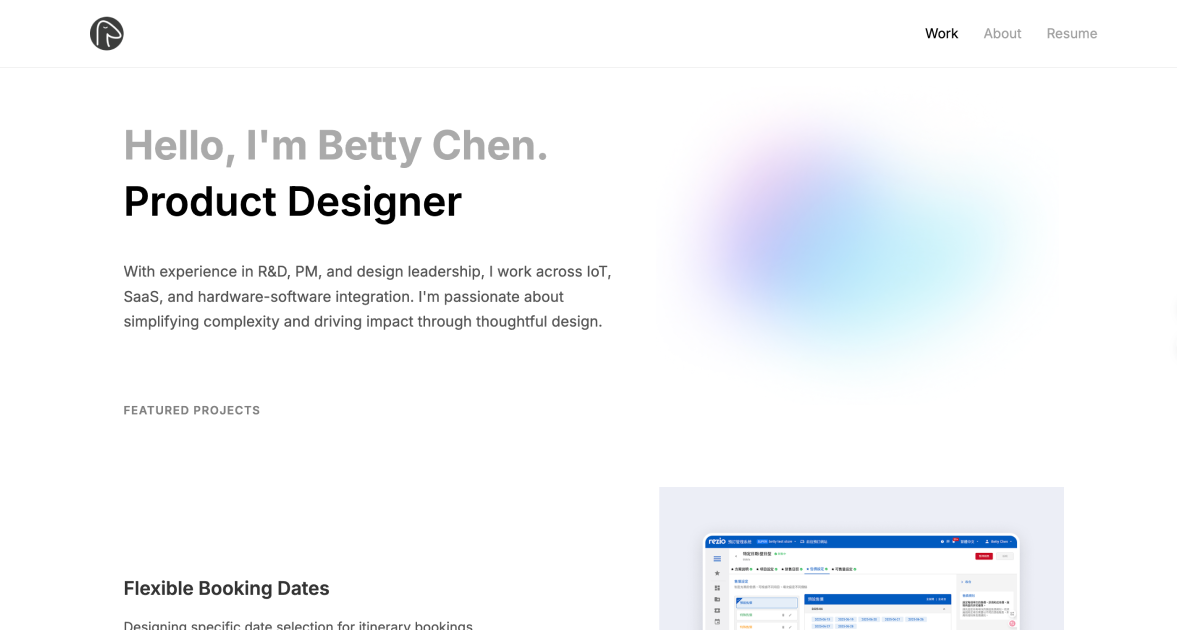
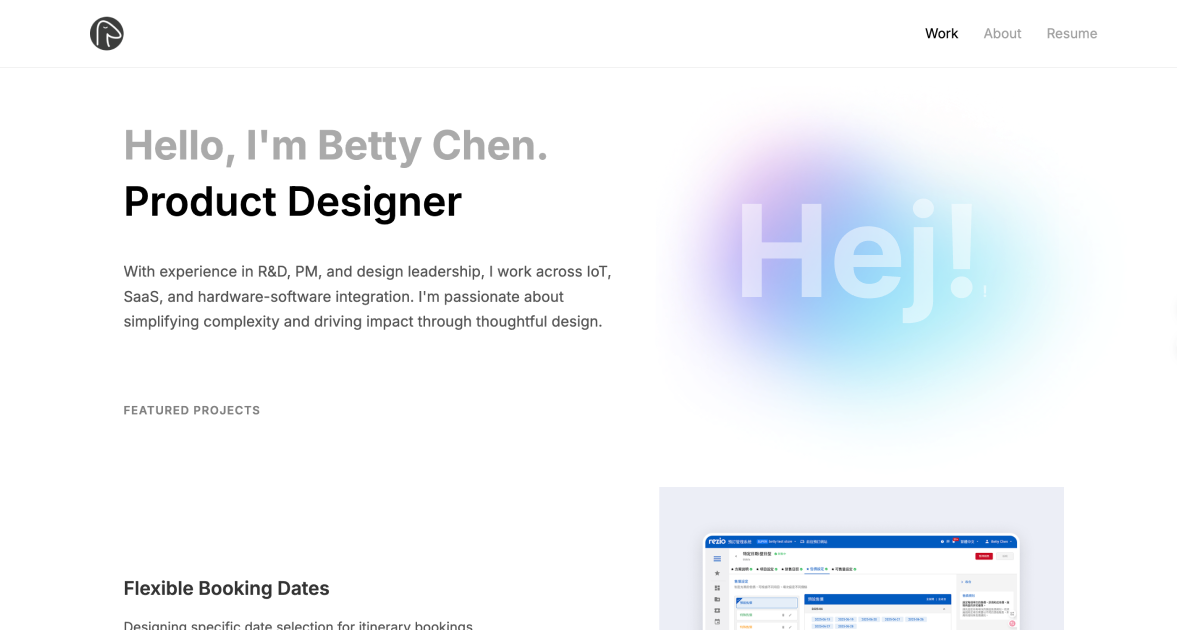
update index gradient animation & og

Changed region(s): [[0.6167, 0.3317, 0.8633, 0.6635]]

diff --git a/index.html b/index.html
@@ -45,12 +45,17 @@
   <div class="main-content">
     <section class="hero">
       <img src="img/floating.png" alt="floating object" class="floating-img">
-      <h1>Hello, I'm Betty Chen.</h1>
-      <div class="subtitle">Product Designer</div>
-      <p class="description">
-        With experience in R&D, PM, and design leadership, I work across IoT, SaaS, and hardware-software integration. 
-        I'm passionate about simplifying complexity and driving impact through thoughtful design.
-      </p>
+      <div class="hero-content-wrapper">
+        <div class="hero-text-content">
+          <h1>Hello, I'm Betty Chen.</h1>
+          <div class="subtitle">Product Designer</div>
+          <p class="description">
+            With experience in R&D, PM, and design leadership, I work across IoT, SaaS, and hardware-software integration. 
+            I'm passionate about simplifying complexity and driving impact through thoughtful design.
+          </p>
+        </div>
+        <div class="hero-hej">Hej!</div>
+      </div>
       <div class="section-title">Featured Projects</div>
     </section>
 
@@ -206,38 +211,92 @@
     document.addEventListener("DOMContentLoaded", () => {
       const img = document.querySelector(".floating-img");
       const container = document.querySelector(".hero");
+      const hejElement = document.querySelector(".hero-hej");
   
-      // 初始位置
-      let x = 50;
-      let y = 50;
-  
-      // 移動速度（越小越慢，越大越快）
-      let vx = 0.8;
-      let vy = 0.3;
-  
-      function animate() {
-        const rect = container.getBoundingClientRect();
-        const w = img.offsetWidth;
-        const h = img.offsetHeight;
-  
-        x += vx;
-        y += vy;
-  
-        // 撞左右反彈
-        if (x <= 0 || x + w >= rect.width) {
-          vx = -vx;
+      // 計算初始位置：從 Hej! 的中心位置出發
+      function getInitialPosition() {
+        if (hejElement && container) {
+          const containerRect = container.getBoundingClientRect();
+          const hejRect = hejElement.getBoundingClientRect();
+          
+          // 計算 Hej! 的中心位置相對於 container 的位置
+          const hejLeft = hejRect.left - containerRect.left;
+          const hejTop = hejRect.top - containerRect.top;
+          const hejCenterX = hejLeft + (hejRect.width / 2);
+          const hejCenterY = hejTop + (hejRect.height / 2);
+          
+          // 讓圖片從 Hej! 的中心位置開始，圖片中心對齊 Hej! 中心
+          const imgWidth = img.offsetWidth || 480;
+          const imgHeight = img.offsetHeight || 480;
+          let x = hejCenterX - (imgWidth / 2);
+          let y = hejCenterY - (imgHeight / 2);
+          
+          // 確保圖片在 hero-hej 範圍內
+          const hejRight = hejLeft + hejRect.width;
+          const hejBottom = hejTop + hejRect.height;
+          x = Math.max(hejLeft, Math.min(x, hejRight - imgWidth));
+          y = Math.max(hejTop, Math.min(y, hejBottom - imgHeight));
+          
+          return { x, y };
         }
-  
-        // 撞上下反彈
-        if (y <= 0 || y + h >= rect.height) {
-          vy = -vy;
-        }
-  
-        img.style.transform = `translate(${x}px, ${y}px)`;
-        requestAnimationFrame(animate);
+        return { x: 50, y: 50 }; // fallback
       }
   
-      animate();
+      // 等待頁面渲染完成後再計算位置
+      setTimeout(() => {
+        if (!hejElement) return;
+        
+        const initialPos = getInitialPosition();
+        let x = initialPos.x;
+        let y = initialPos.y;
+        let rotation = 0; // 旋轉角度
+        
+        // 設置初始位置
+        img.style.transform = `translate(${x}px, ${y}px) rotate(${rotation}deg)`;
+        
+        // 移動速度（越小越慢，越大越快）
+        let vx = 0.6;
+        let vy = 0.2;
+        const rotationSpeed = 0.5; // 旋轉速度（度/幀）
+        
+        function animate() {
+          // 使用 hero-hej 的邊界作為活動範圍
+          const containerRect = container.getBoundingClientRect();
+          const hejRect = hejElement.getBoundingClientRect();
+          
+          // 計算 hero-hej 相對於 hero 的位置
+          const hejLeft = hejRect.left - containerRect.left;
+          const hejTop = hejRect.top - containerRect.top;
+          const hejRight = hejLeft + hejRect.width;
+          const hejBottom = hejTop + hejRect.height;
+          
+          const w = img.offsetWidth;
+          const h = img.offsetHeight;
+    
+          x += vx;
+          y += vy;
+          rotation += rotationSpeed; // 持續旋轉
+    
+          // 撞左右反彈（限制在 hero-hej 範圍內）
+          if (x < hejLeft || x + w > hejRight) {
+            vx = -vx;
+            // 確保不會超出邊界
+            x = Math.max(hejLeft, Math.min(x, hejRight - w));
+          }
+    
+          // 撞上下反彈（限制在 hero-hej 範圍內）
+          if (y < hejTop || y + h > hejBottom) {
+            vy = -vy;
+            // 確保不會超出邊界
+            y = Math.max(hejTop, Math.min(y, hejBottom - h));
+          }
+    
+          img.style.transform = `translate(${x}px, ${y}px) rotate(${rotation}deg)`;
+          requestAnimationFrame(animate);
+        }
+        
+        animate();
+      }, 100);
     });
   </script>
   

diff --git a/style.css b/style.css
@@ -94,10 +94,11 @@ a {
   width: 480px; /* 你可以改大小 */
   top: 0;
   left: 0;
-  opacity: 0.55; /* 建議淡淡的比較不搶戲 */
+  opacity: 0.8; /* 建議淡淡的比較不搶戲 */
   pointer-events: none;
   user-select: none;
   transform: translate(0, 0);
+  z-index: 1; /* 在 Hej! 文字下方，作為底色 */
 }
 
 .hero-background-image {
@@ -115,6 +116,38 @@ a {
   padding: 64px 0 40px 0;
   position: relative;
   z-index: 1;
+}
+
+.hero-content-wrapper {
+  display: grid;
+  grid-template-columns: 1fr 1fr;
+  gap: 40px;
+  align-items: start;
+  position: relative;
+  z-index: 2;
+}
+
+.hero-text-content {
+  position: relative;
+  z-index: 2;
+}
+
+.hero-hej {
+  font-size: 120px;
+  font-weight: 700;
+  color: #ffffff;
+  opacity: 0.5;
+  line-height: 1;
+  position: relative;
+  z-index: 2; /* 在 floating-img 上方 */
+  pointer-events: none;
+  user-select: none;
+  display: flex;
+  align-items: center;
+  justify-content: center;
+  width: 100%;
+  height: 100%;
+  min-height: 200px; /* 確保有足夠高度 */
 }
 
 .hero h1,
@@ -391,6 +424,10 @@ a {
     padding: 0 30px;
   }
 
+  .hero-hej {
+    font-size: 100px;
+  }
+
   .hero h1,
   .hero .subtitle,
   .page-title {
@@ -421,6 +458,22 @@ a {
     padding: 40px 0 80px 0;
   }
 
+  .hero-content-wrapper {
+    grid-template-columns: 1fr;
+    gap: 0;
+  }
+
+  .hero-hej {
+    font-size: 80px;
+    order: -1;
+    margin-bottom: 20px;
+    min-height: 150px;
+  }
+
+  .floating-img {
+    width: 288px; /* 480px * 60% = 288px */
+  }
+
   .hero h1,
   .hero .subtitle,
   .page-title {
@@ -449,6 +502,11 @@ a {
 }
 
 @media (max-width: 480px) {
+  .hero-hej {
+    font-size: 60px;
+    min-height: 120px;
+  }
+
   .hero h1,
   .hero .subtitle,
   .page-title {
